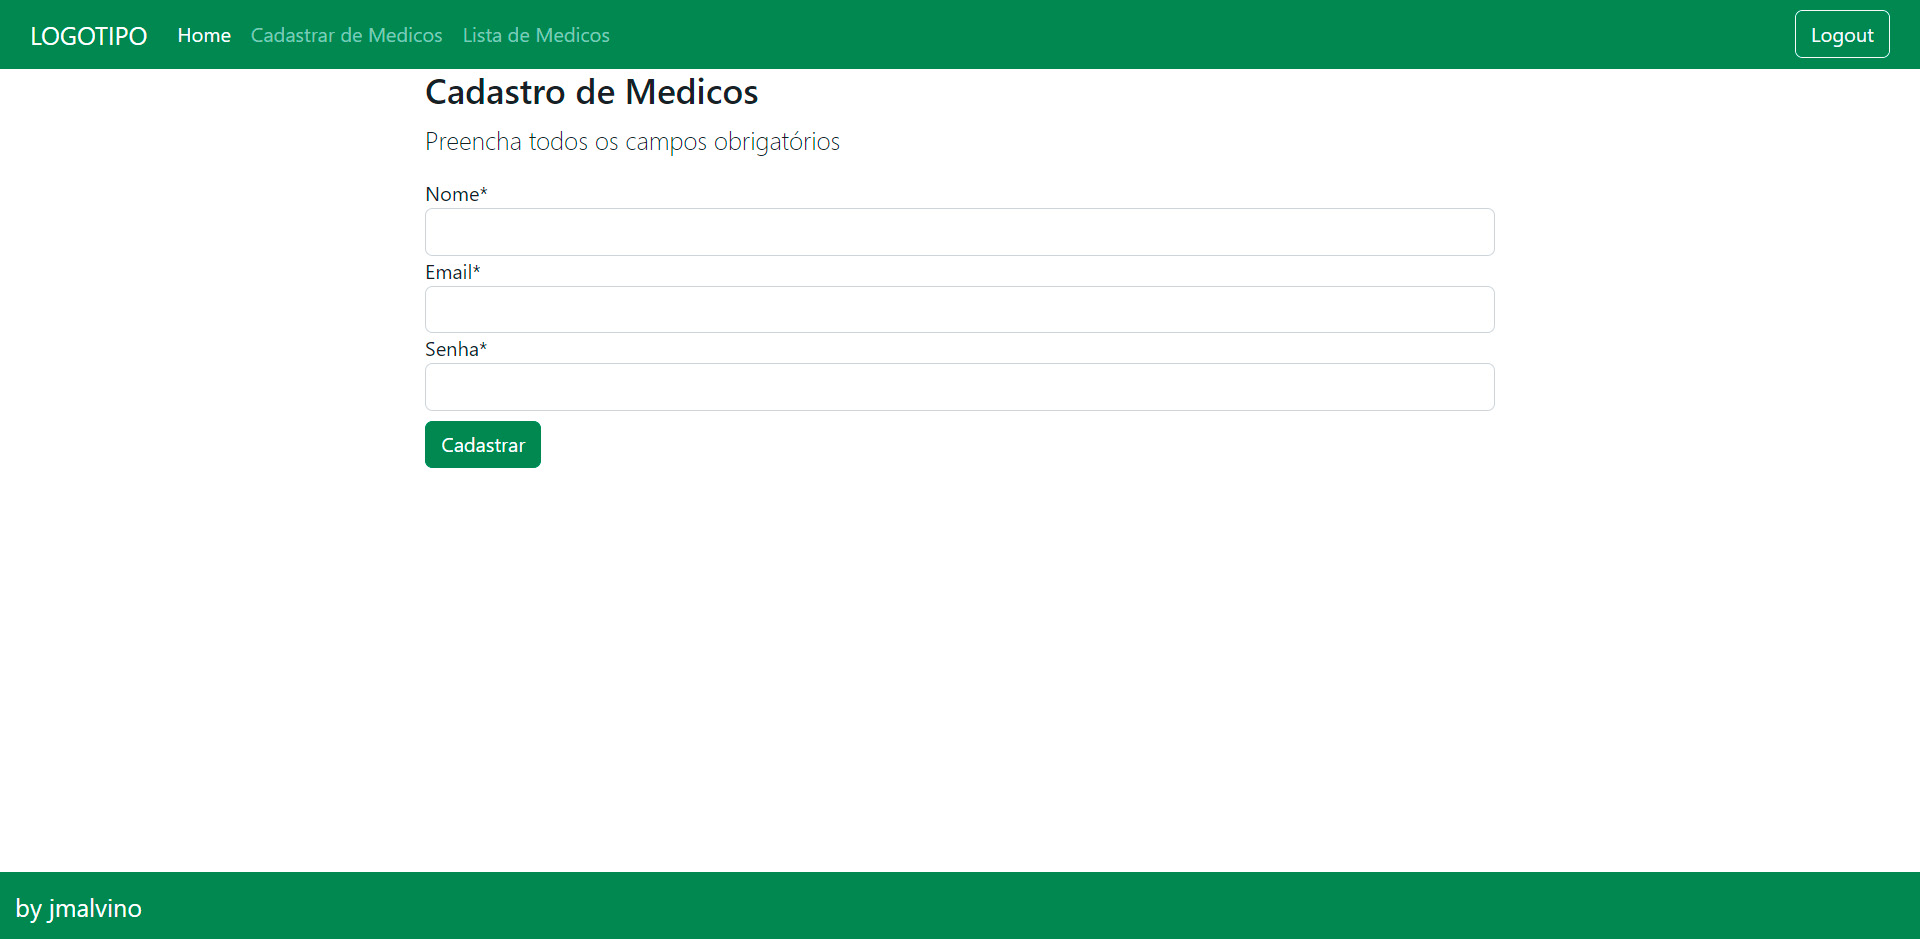
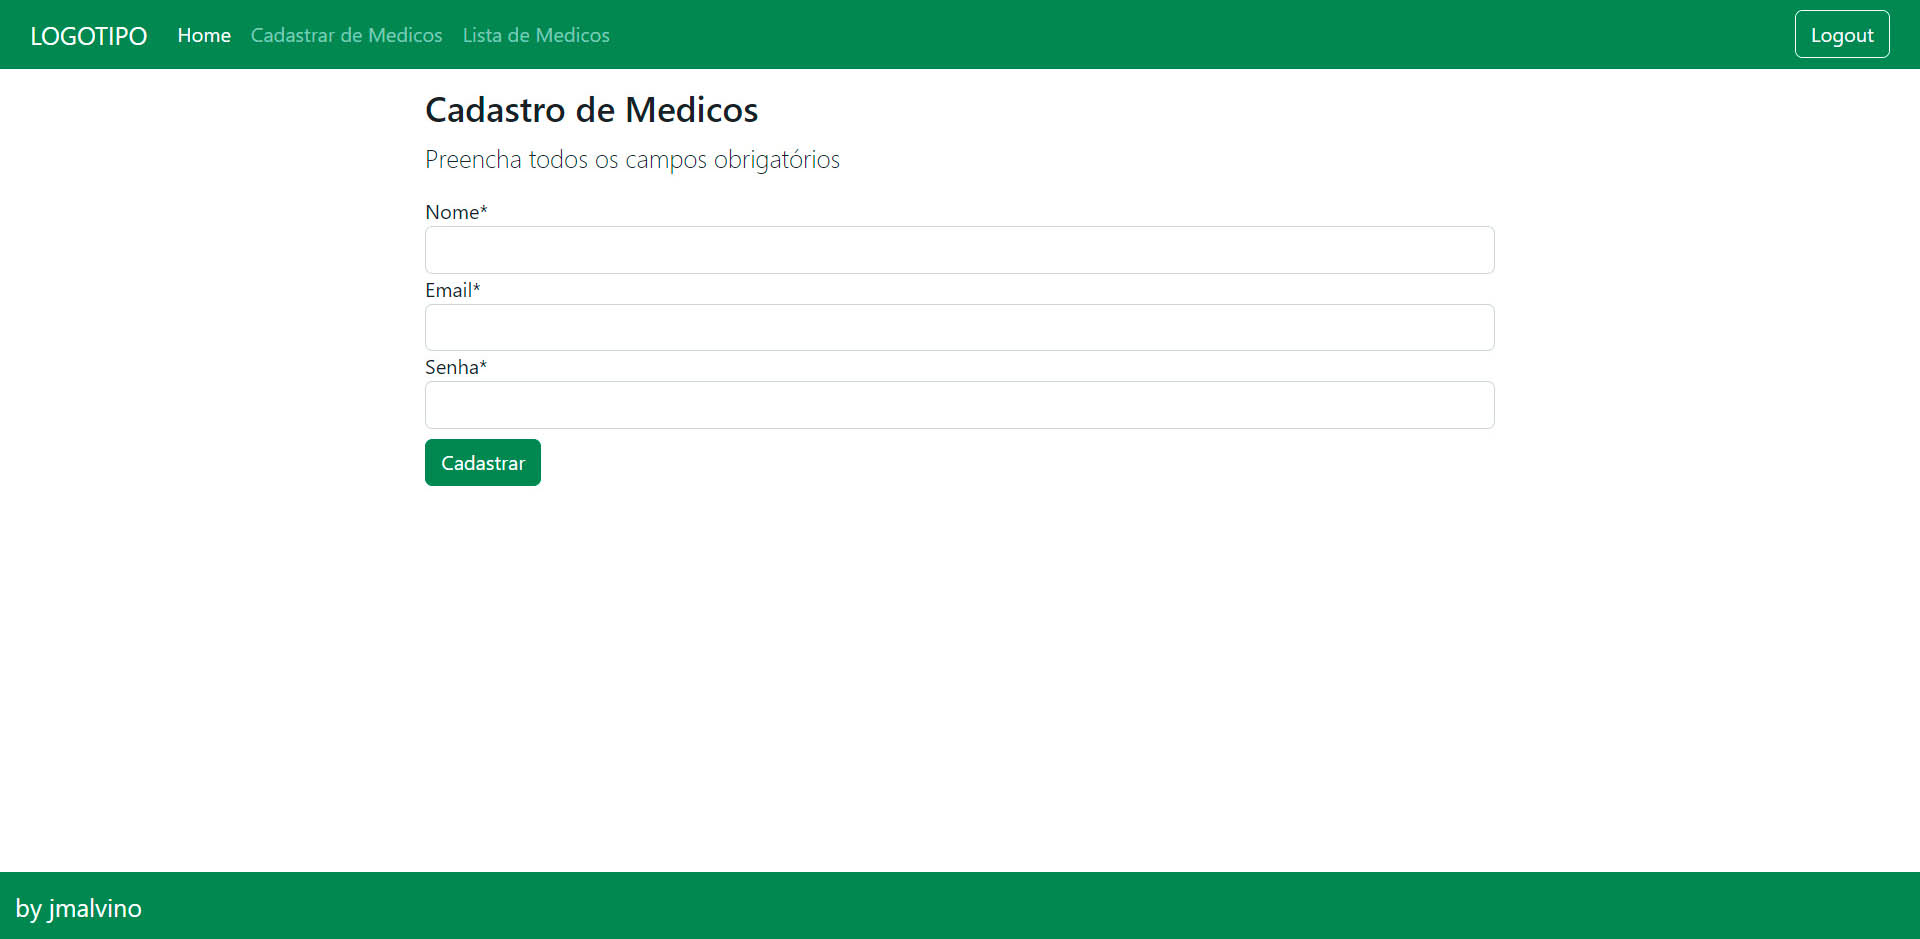
passo a passo para criar um novo projeto

diff --git a/pacientes/templates/pacientes/base.html b/pacientes/templates/pacientes/base.html
@@ -84,9 +84,6 @@
 
     <script>
       $(document).ready(function(){
-
-        alert('ok');
-
         $("#id_telefone").mask("(00) 00000.0000");
         $("#id_cep").mask("00.000-000");        
       });

diff --git a/pacientes/templates/pacientes/pacientes_list.html b/pacientes/templates/pacientes/pacientes_list.html
@@ -5,8 +5,9 @@
 {%endblock%}
 
 {%block conteudo %}
-
-<h3>Lista de Pacientes</h3>
+<br>
+<br>
+<h3 >Lista de Pacientes</h3>
 
 <div class="table-responsive">
     <table class="table table-striped">

diff --git a/pacientes/templates/pacientes/pacientes_form.html b/pacientes/templates/pacientes/pacientes_form.html
@@ -5,9 +5,7 @@
     Pacientes
 {%endblock%}
 
-
 {%block conteudo %}
-
 <h3>Cadastro de Pacientes</h3>
 <p class='lead'>
     Preencha todos os campos obrigatórios

diff --git a/medicos/templates/medicos/medicos_form.html b/medicos/templates/medicos/medicos_form.html
@@ -6,7 +6,7 @@
 {%endblock%}
 
 {%block conteudo %}
-
+<br>
 <h3>Cadastro de Medicos</h3>
 <p class='lead'>
     Preencha todos os campos obrigatórios

diff --git a/medicos/templates/medicos/medicos_list.html b/medicos/templates/medicos/medicos_list.html
@@ -5,7 +5,8 @@
 {%endblock%}
 
 {%block conteudo %}
-
+<br>
+<br>
 <h3>Lista de Médicos</h3>
 
 <div class="table-responsive">
